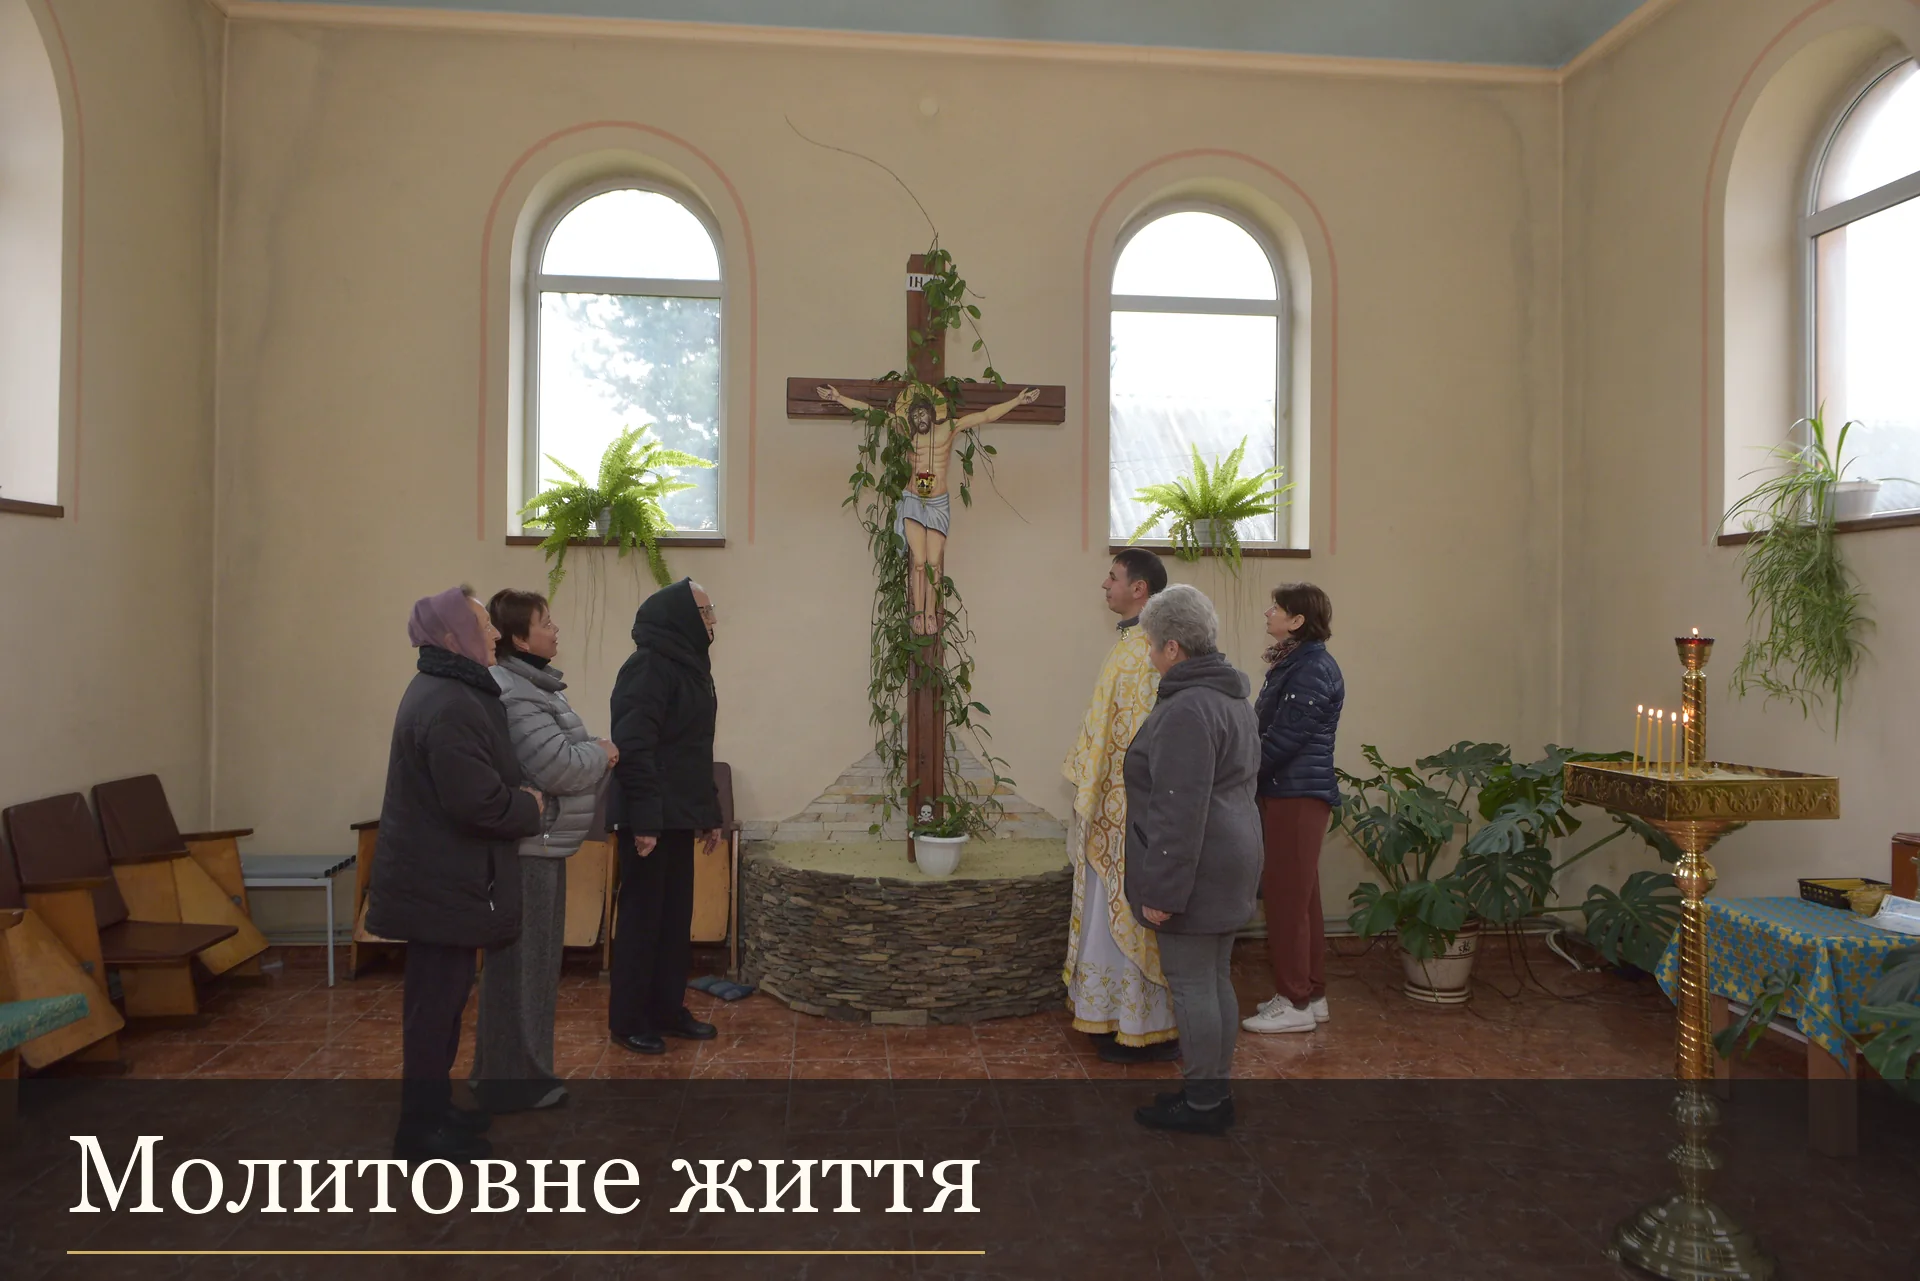
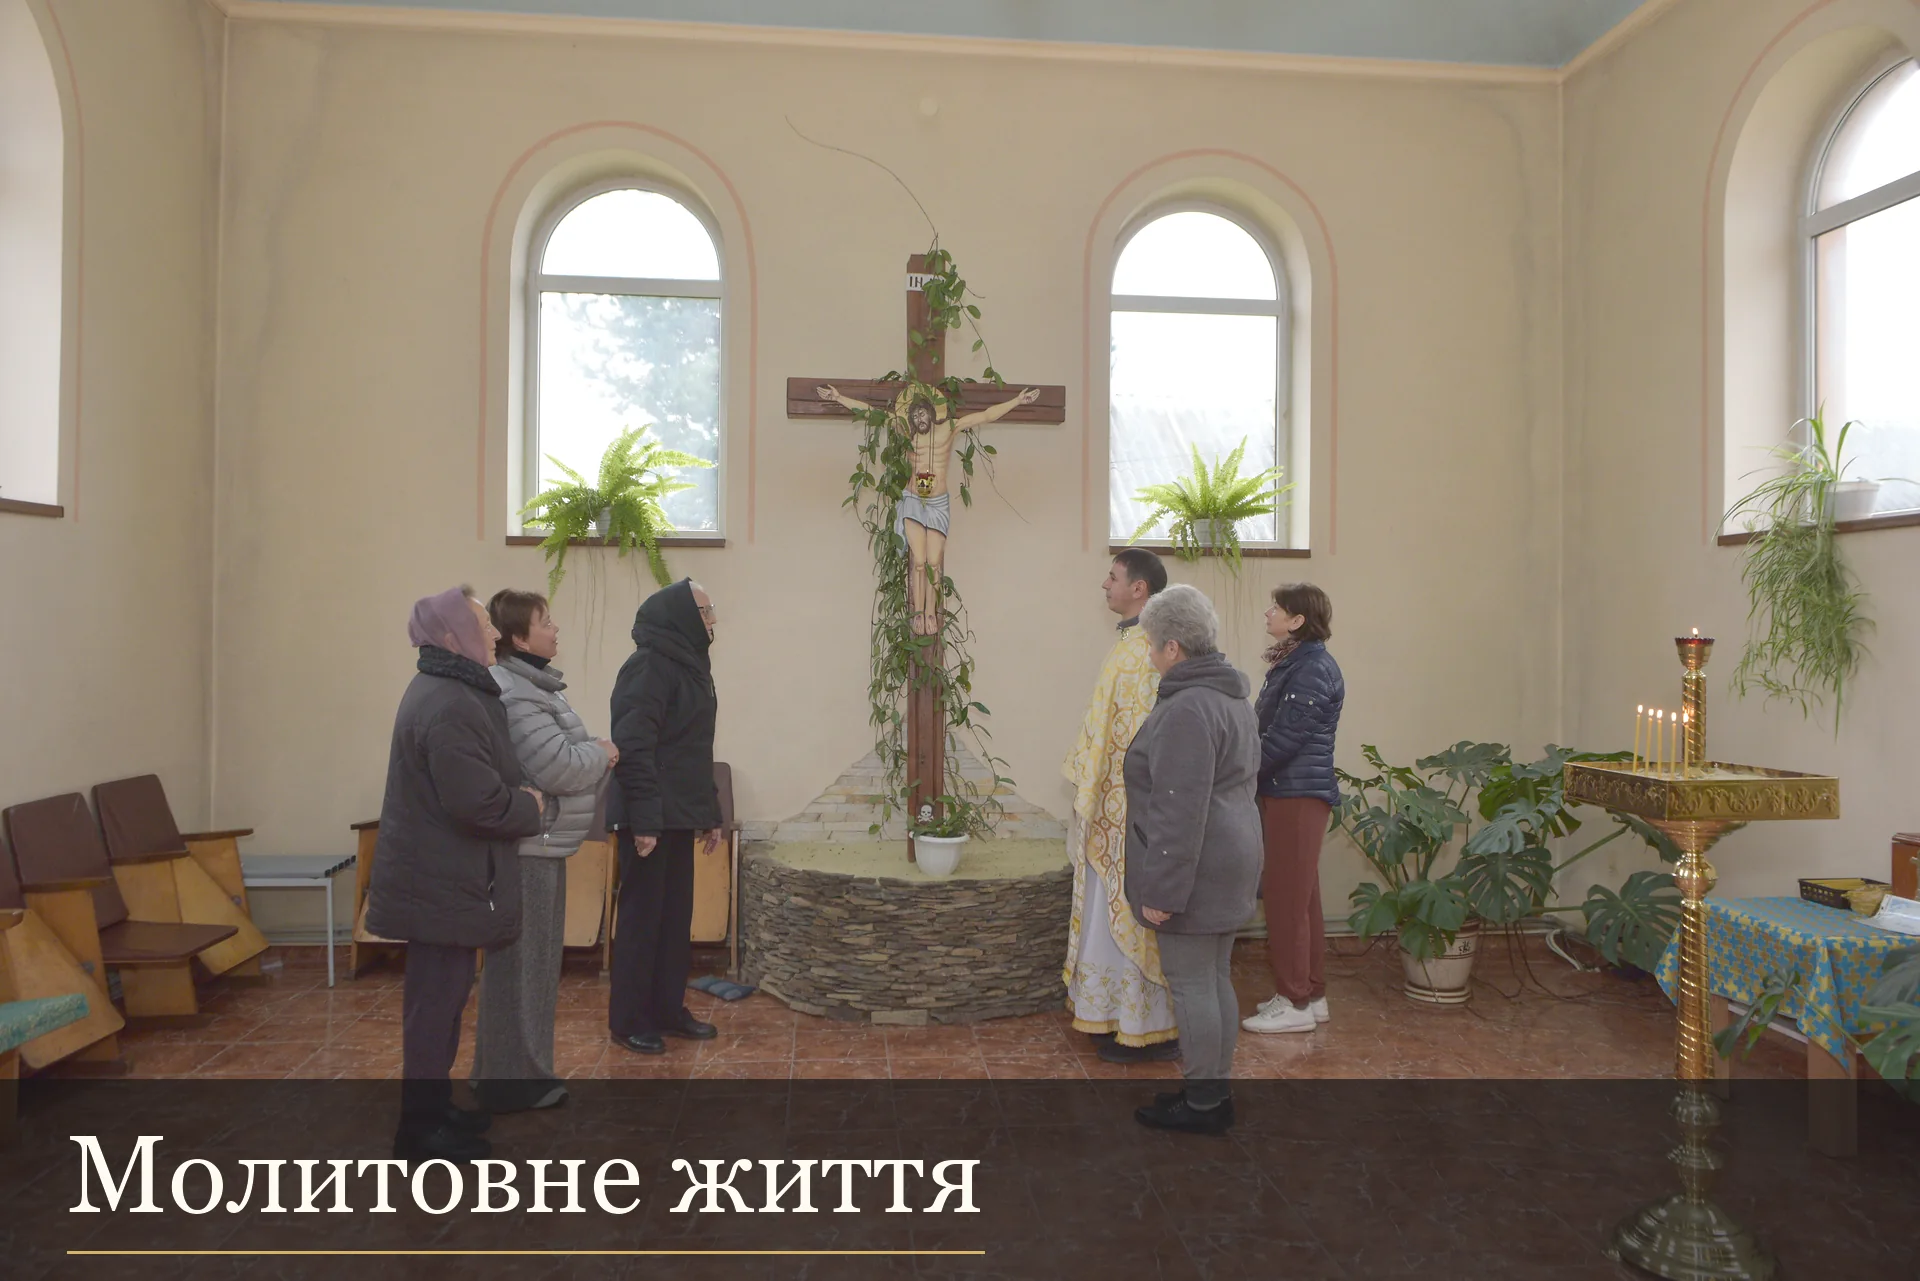
Brighten the prayer-at-the-crucifix photograph

diff --git a/docs/UNIFIED_PHOTO_STYLE.md b/docs/UNIFIED_PHOTO_STYLE.md
@@ -1,5 +1,7 @@
 # Единый стиль фотографий — 29.10.2026
 
+Дополнительная правка по отзыву владельца: снимок «Молитовне життя» (`prayer-at-crucifix`, 810_9942.NEF) стал светлее. Тени и полутона дополнительно подняты кривой gamma 0.62 вместо 0.82 из камерного оригинала; сохранены лица, распятие, композиция, размеры и подпись. Обновлены только десять WebP-вариантов этого снимка и два фотоэкспорта. Остальные фотографии побайтово не менялись. Помощник финальной обработки допускает выбор одного ID: `finish-photo-style.py prayer-at-crucifix`.
+
 Восемь снимков: обычная коррекция света, цвета и мягкая резкость, без генерации лиц, икон или предметов. Для четырёх тёмных NEF свет скорректирован от исходного камерного JPEG, а не повторной обработкой сжатого WebP. Два снимка — храм и дзвіниця — получили голубое небо с облаками и более насыщенные цвета через встроенный image_gen по отдельному последующему запросу владельца; показанные варианты им одобрены. Сходство архитектуры и композиции проверено визуально. Оригиналы сохранены отдельно и проверяются по SHA256.
 
 Основной источник главной фотографии теперь — предоставленный чистый JPG `278573868_1425839301226641_3539423572968669265_n.jpg`. Прежний PNG остаётся сохранённым образцом оформления; его вертикальная композиция не навязывается квадратному оригиналу. По последнему поручению владельца hero обеих языковых версий теперь — храм (`church-exterior`). Затем идёт история с архивной картой, после неё — отдельный блок Божественной Литургии с прежним священником за престолом возле чаши. Изображения не увеличиваются выше исходного разрешения; для JPG 959 px используется нативный вариант, а не искусственный 960/1122 px.
